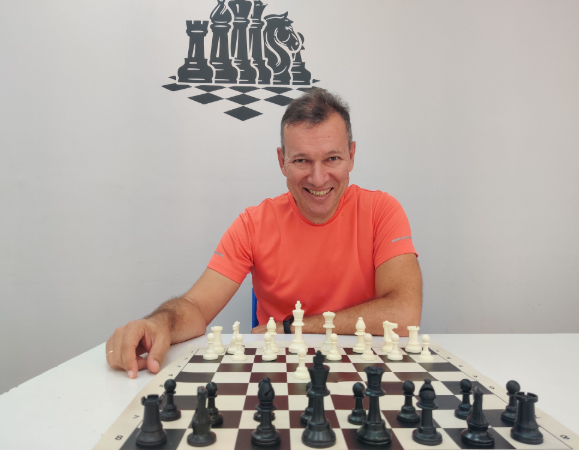
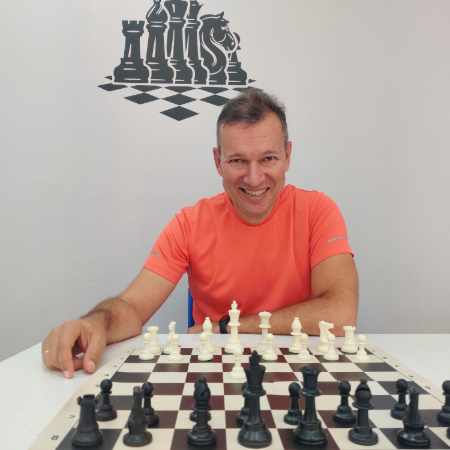
Правки важные

Changed region(s): [[0.0, 0.0, 1.0, 1.0]]

diff --git a/index.html b/index.html
@@ -478,9 +478,9 @@
     <div class="container nav-wrap">
       <ul class="nav-links">
         <li><button class="nav-item-btn active" id="btn-nav-home" onclick="switchPage('home')">Главная</button></li>
-        <li><button class="nav-item-btn" id="btn-nav-beginner" onclick="switchPage('beginner')">Правила игры</button></li>
+        <li><button class="nav-item-btn" id="btn-nav-beginner" onclick="switchPage('beginner')">Учимся играть</button></li>
         <li><button class="nav-item-btn" id="btn-nav-playchess" onclick="switchPage('playchess')">Побеждаем ботов</button></li>
-        <li><button class="nav-item-btn" id="btn-nav-checkmate" onclick="switchPage('checkmate')">Ставим мат</button></li>
+        <li><button class="nav-item-btn" id="btn-nav-checkmate" onclick="switchPage('checkmate')">Учимся матовать</button></li>
         <li><button class="nav-item-btn" id="btn-nav-photo" onclick="switchPage('photo')">Фотоархив</button></li>
       </ul>
     </div>
@@ -506,7 +506,7 @@
           <p>Меня зовут Александр Дворжицкий.<br>Играю в шахматы с 6 лет.</p>
           <p>Занимался шахматами в Перми (тренер Марк Друккер).<br>Занимался шахматами в Петрозаводске (тренер Александр Гойхенберг).</p>
           <p>После переезда в Израиль в 2021 году начал выступать за команду города Нагария и работать тренером по шахматам.</p>
-          <p>Занимаюсь как с начинающими шахматистами (от 5 лет и до бесконечности), так и с теми, кто уже достиг первых шахматных успехов (также любого возраста).</p>
+          <p>Занимаюсь с шахматистами любого возраста (от 5 лет до бесконечности).</p>
         </div>
       </section>
 
@@ -519,24 +519,33 @@
         </div>
         <div class="section-content">
           <h2><a href="https://wa.me/+972534766343" target="_blank" rel="noopener noreferrer" style="color: inherit; text-decoration: none;">Записаться на занятия</a></h2>
-          <p>Я провожу занятия по шахматам в Нагарии.<br>Есть группы для начинающих шахматистов.<br>И есть группы для более опытных игроков.</p>
-          <p>Кроме ведения кружков я провожу индивидуальные занятия по шахматам (с первых шагов до первых побед в турнирах)!<br>Время и место проведения индивидуальных занятий согласовываются дополнительно.</p>
-          <p>Телефон (WhatsApp): <a href="https://wa.me/+972534766343" target="_blank" rel="noopener noreferrer" style="font-weight: 700; color: #16a34a;">+972534766343</a></p>
+          <p>Хотите научиться играть в шахматы или усилить свою игру?<br>Приглашаю на занятия в Нагарии!<br>Есть группы для новичков и опытных игроков.</p>
+          <p>Для тех, кто ценит индивидуальный подход, провожу частные уроки очно и дистанционно в удобное для вас время.</p>
+          <div class="play-buttons-group">
+            <a href="https://wa.me/+972534766343" target="_blank" rel="noopener noreferrer" class="play-btn btn-whatsapp">
+              <span>💬</span> Телефон (WhatsApp)
+            </a>
+          </div>
         </div>
       </section>
 
-      <!-- Правила игры -->
+      <!-- Учимся играть -->
       <section class="section-block">
         <div class="section-img-wrap">
           <a href="javascript:void(0)" onclick="switchPage('beginner')">
-            <img src="images/Learn.png" alt="Правила игры в шахматы" />
+            <img src="images/Learn.png" alt="Учимся играть в шахматы" />
           </a>
         </div>
         <div class="section-content">
-          <h2><a href="javascript:void(0)" onclick="switchPage('beginner')" style="color: inherit; text-decoration: none;">Правила игры</a></h2>
-          <p>Если вы только мечтаете научиться играть в шахматы — <a href="javascript:void(0)" onclick="switchPage('beginner')">смотрите простые и короткие уроки</a>.</p>
-          <p>Если у вас маленький ребенок и он заскучал, глядя на видео выше, покажите ему вот <a href="https://youtube.com/playlist?list=PLaQxUBfXEL3-sCaiPb_nKjXo4CuunTbqU" target="_blank" rel="noopener noreferrer">эти видео</a>!</p>
-          <p>А после просмотра уроков — <a href="javascript:void(0)" onclick="switchPage('beginner')">делайте упражнения на компьютере, планшете или смартфоне</a>.</p>
+          <h2><a href="javascript:void(0)" onclick="switchPage('beginner')" style="color: inherit; text-decoration: none;">Учимся играть</a></h2>
+          <p>Если вы только мечтаете научиться играть в шахматы — смотрите простые и короткие уроки.</p>
+          <p>Если у вас маленький ребенок — есть специальные учебные видео для «шахматят».</p>
+          <p>После просмотра уроков сделайте упражнения на компьютере, планшете или смартфоне.</p>
+          <div class="play-buttons-group">
+            <button onclick="switchPage('beginner')" class="play-btn btn-chesscom" style="cursor: pointer; border: none;">
+              Учимся играть в шахматы →
+            </button>
+          </div>
         </div>
       </section>
 
@@ -544,7 +553,7 @@
       <section class="section-block">
         <div class="section-img-wrap">
           <a href="javascript:void(0)" onclick="switchPage('playchess')">
-            <img src="images/play.png" alt="Побеждаем ботов" />
+            <img src="images/bot.jpg" alt="Побеждаем ботов" />
           </a>
         </div>
         <div class="section-content">
@@ -559,17 +568,23 @@
         </div>
       </section>
 
-      <!-- Ставим мат -->
+      <!-- Учимся матовать -->
       <section class="section-block">
         <div class="section-img-wrap">
           <a href="javascript:void(0)" onclick="switchPage('checkmate')">
-            <img src="images/checkmate.png" alt="Ставим мат" />
+            <img src="images/checkmate.png" alt="Учимся матовать" />
           </a>
         </div>
         <div class="section-content">
-          <h2><a href="javascript:void(0)" onclick="switchPage('checkmate')" style="color: inherit; text-decoration: none;">Ставим мат</a></h2>
+          <h2><a href="javascript:void(0)" onclick="switchPage('checkmate')" style="color: inherit; text-decoration: none;">Учимся матовать</a></h2>
           <p>Когда вы освоили правила игры в шахматы и попробовали сыграть свои первые партии, пора осваивать следующие важные уроки!</p>
-          <p>Цель игры в шахматы — поставить мат сопернику. <a href="javascript:void(0)" onclick="switchPage('checkmate')">Давайте научимся ставить мат одинокому королю!</a></p>
+          <p>Цель игры в шахматы — поставить мат сопернику.</p>
+          <p>Давайте научимся ставить мат одинокому королю!</p>
+          <div class="play-buttons-group">
+            <button onclick="switchPage('checkmate')" class="play-btn btn-chesscom" style="cursor: pointer; border: none;">
+              Учимся ставить мат →
+            </button>
+          </div>
         </div>
       </section>
 
@@ -582,7 +597,12 @@
         </div>
         <div class="section-content">
           <h2><a href="javascript:void(0)" onclick="switchPage('photo')" style="color: inherit; text-decoration: none;">Фотоархив соревнований и занятий</a></h2>
-          <p>Переходите на <a href="javascript:void(0)" onclick="switchPage('photo')">фотостраничку</a> — здесь собраны фотографии с турниров и шахматных занятий. Ищите себя, делитесь комментариями и ставьте "лайки" понравившимся фото!</p>
+          <p>Здесь собраны фотографии с турниров и шахматных занятий. Ищите себя, делитесь комментариями и ставьте «лайки» понравившимся фото!</p>
+          <div class="play-buttons-group">
+            <button onclick="switchPage('photo')" class="play-btn btn-chesscom" style="cursor: pointer; border: none;">
+              Посмотреть фотографии →
+            </button>
+          </div>
         </div>
       </section>
 
@@ -609,14 +629,12 @@
       <!-- Отзывы -->
       <section class="section-block">
         <div class="section-img-wrap">
-          <a href="https://forms.gle/FB8wTAi3YVHyffGB7" target="_blank" rel="noopener noreferrer">
-            <img src="images/Write.png" alt="Отзывы" />
-          </a>
+          <img src="images/Write.png" alt="Отзывы" />
         </div>
         <div class="section-content">
           <h2>Напишите свои пожелания!</h2>
           <p>Поделитесь своим мнением в удобном мессенджере в один клик:</p>
-          <div class="play-buttons-group" style="margin-bottom: 16px;">
+          <div class="play-buttons-group">
             <a href="https://wa.me/972534766343?text=%D0%9F%D1%80%D0%B8%D0%B2%D0%B5%D1%82!%20%D0%A5%D0%BE%D1%87%D1%83%20%D0%BE%D1%81%D1%82%D0%B0%D0%B2%D0%B8%D1%82%D1%8C%20%D0%BE%D1%82%D0%B7%D1%8B%D0%B2%20%D0%BE%20%D0%B7%D0%B0%D0%BD%D1%8F%D1%82%D0%B8%D1%8F%D1%85%20%D1%88%D0%B0%D1%85%D0%BC%D0%B0%D1%82%D0%B0%D0%BC%D0%B8%3A%20" target="_blank" rel="noopener noreferrer" class="play-btn btn-whatsapp">
               <span>💬</span> WhatsApp
             </a>
@@ -624,7 +642,6 @@
               <span>✈</span> Telegram
             </a>
           </div>
-          <p>Или заполните форму: <a href="https://forms.gle/FB8wTAi3YVHyffGB7" target="_blank" rel="noopener noreferrer">Google Форма для отзывов</a></p>
         </div>
       </section>
     </div>
@@ -773,8 +790,8 @@
 
       <div style="text-align: center; margin: 30px 0;">
         <h3 style="color: var(--accent); margin-bottom: 16px;">Удачи — у вас всё получится! 🏆</h3>
-        <button onclick="switchPage('home')" class="play-btn btn-lichess" style="cursor: pointer; border: 1px solid #cbd5e1;">
-          ← Вернуться на главную
+        <button onclick="goBack()" class="play-btn btn-lichess" style="cursor: pointer; border: 1px solid #cbd5e1;">
+          ← Назад
         </button>
       </div>
     </div>
@@ -989,7 +1006,14 @@
   </footer>
 
   <script>
+    let previousPage = 'home';
+
     function switchPage(pageId) {
+      const currentActive = document.querySelector('.page-view.active-page');
+      if (currentActive) {
+        previousPage = currentActive.id.replace('page-', '');
+      }
+
       document.querySelectorAll('.page-view').forEach(p => p.classList.remove('active-page'));
       document.querySelectorAll('.nav-item-btn').forEach(btn => btn.classList.remove('active'));
 
@@ -1004,6 +1028,10 @@
       }
 
       window.scrollTo({ top: 0, behavior: 'smooth' });
+    }
+
+    function goBack() {
+      switchPage(previousPage);
     }
 
     const quotes = [
